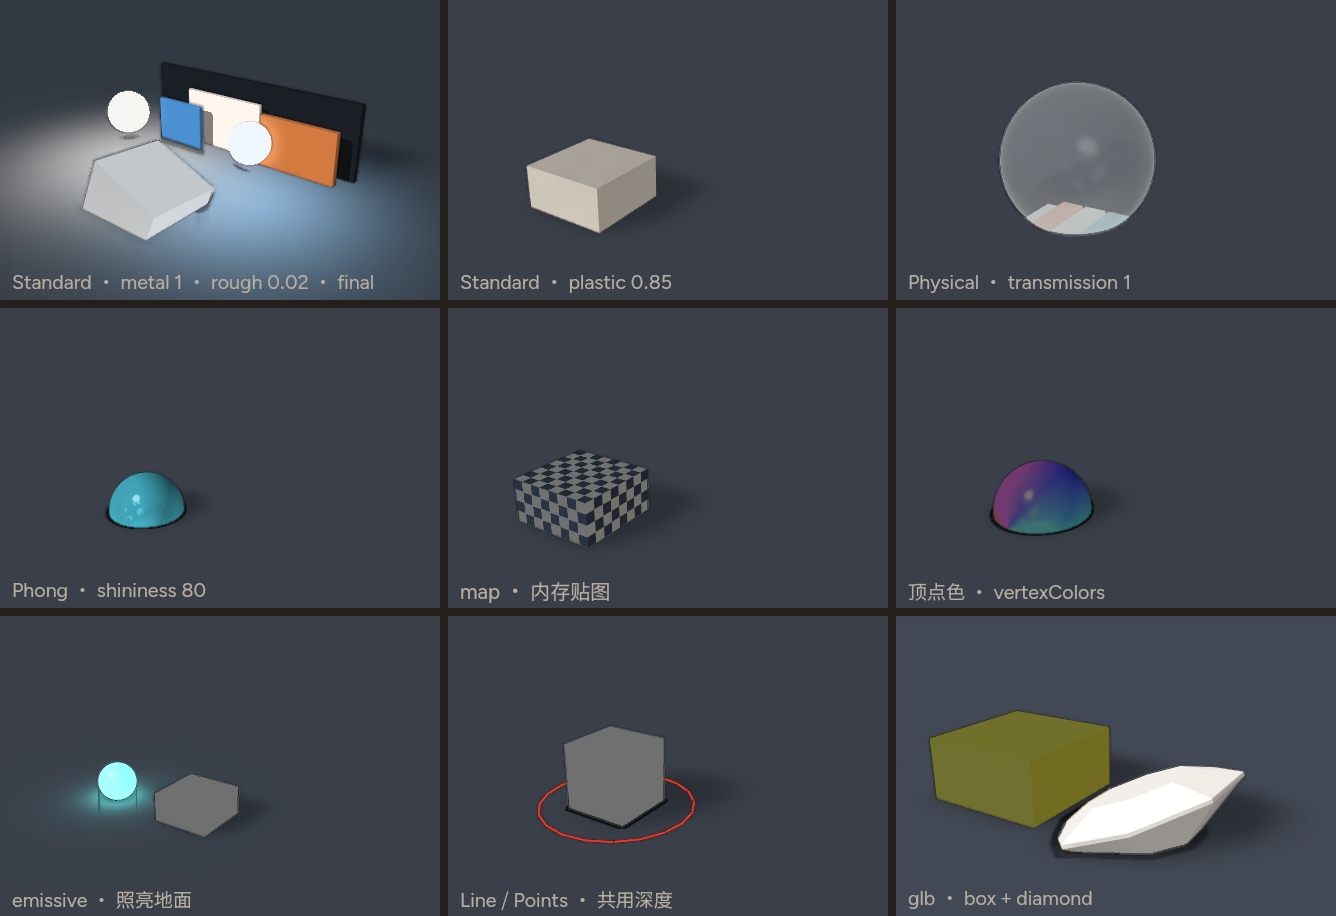
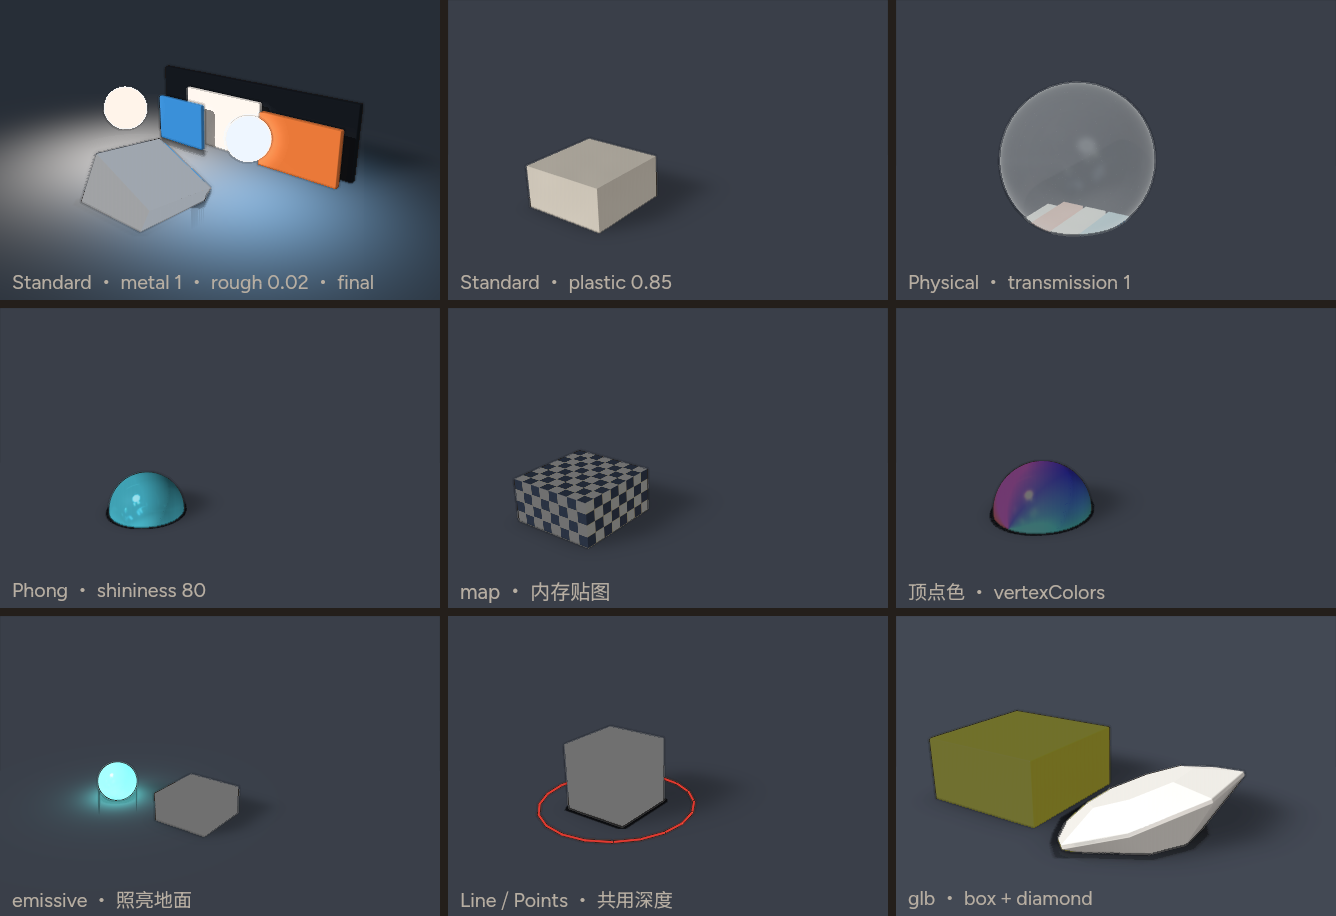
QUALITY-6 matclose: closer materials + darker mirror metal
Pull materials framing to distance 800, densify yawed mint glass,
enlarge neon. Darken Standard metal so bounce cards read as mirror
instead of flood white.

Changed region(s): [[0.0614, 0.0917, 0.1841, 0.2751], [0.1841, 0.1223, 0.2762, 0.214]]

diff --git a/docs/gallery/3d/model/standard-metal.tsx b/docs/gallery/3d/model/standard-metal.tsx
@@ -4,37 +4,37 @@ import * as THREE from 'three'
 
 // QUALITY-6 §E.2 cell 1: MeshStandardMaterial, metalness 1.
 // SPEC maps metalness ≥ 0.5 to `metal`. Keep Standard (not Physical).
-// Metshine: yawback A model 6 / B matte-grey Standard — restore silvercube
-// lamp heat + brighter lid so SSR bounce cards read, keep metform yaw.
+// Matclose: metshine B Standard read matte white under flood lamps — darker
+// lid + saturated bounce cards so SSR reflections contrast; keep yaw.
 const mesh = new THREE.Mesh(
   new THREE.BoxGeometry(1, 1, 1),
-  new THREE.MeshStandardMaterial({ color: '#dce4ec', metalness: 1, roughness: 0.02 }),
+  new THREE.MeshStandardMaterial({ color: '#9aa6b4', metalness: 1, roughness: 0.02 }),
 )
-mesh.rotation.y = 0.38
-mesh.rotation.x = -0.08
+mesh.rotation.y = 0.42
+mesh.rotation.x = -0.1
 
 export default layer.create(
-  <layer width={440} height={300} background="#241f1b">
+  <layer width={440} height={300} background="#1c1816">
     <layer
       width={440}
       height={300}
-      camera="fov 34, orbit 38 24, distance 850, at 220 198 0"
+      camera="fov 34, orbit 40 22, distance 860, at 220 198 0"
       light="world"
       quality="final"
     >
-      <light type="hemisphere" intensity="0.42" color="#e8eef4" ground-color="#323840" />
-      <light type="directional" intensity="0.88" color="#ffffff" x="-180" y="-420" z="520" target="0 0 0" />
-      <light type="point" intensity="2.5" color="#ffffff" x="300" y="40" z="220" distance="700" />
-      <light type="point" intensity="2.1" color="#8ec8ff" x="-120" y="60" z="180" distance="500" />
-      <ground y={220} rotateX={90} fill="#2a3038" shadow-blur={52} shadow-opacity={0.34} />
-      <sphere cx="95" cy="130" r="34" z="90" fill="#f0ebe4" material="lamp" />
-      <sphere cx="340" cy="125" r="30" z="85" fill="#5aa8ff" material="lamp" />
+      <light type="hemisphere" intensity="0.28" color="#dce6f0" ground-color="#1e242c" />
+      <light type="directional" intensity="0.7" color="#ffffff" x="-200" y="-400" z="520" target="0 0 0" />
+      <light type="point" intensity="1.6" color="#ffffff" x="320" y="20" z="240" distance="700" />
+      <light type="point" intensity="1.8" color="#6ab0ff" x="-140" y="50" z="200" distance="500" />
+      <ground y={220} rotateX={90} fill="#222830" shadow-blur={52} shadow-opacity={0.38} />
+      <sphere cx="88" cy="125" r="36" z="95" fill="#fff4ea" material="lamp" />
+      <sphere cx="348" cy="120" r="32" z="90" fill="#4a9cff" material="lamp" />
       <layer x={28} y={220} width={400} height={190} origin="200 0" rotateX={90} preserve-3d>
-        <rect x="-10" y="-80" width="420" height="12" depth="260" fill="#1a1e24" />
-        <rect x="250" y="-45" width="140" height="12" depth="180" fill="#d07840" />
-        <rect x="30" y="-30" width="100" height="10" depth="160" fill="#4a8fd0" />
-        <rect x="80" y="-55" width="160" height="8" depth="200" fill="#fff4ea" />
-        <model object={mesh} unit={122} x={200} y={188} material="finish metal, color #c8d2dc, roughness 0.02, metalness 1" />
+        <rect x="-10" y="-80" width="420" height="12" depth="260" fill="#14181e" />
+        <rect x="250" y="-45" width="150" height="12" depth="190" fill="#e87838" />
+        <rect x="20" y="-30" width="110" height="10" depth="170" fill="#3a8fd8" />
+        <rect x="70" y="-55" width="170" height="8" depth="210" fill="#fff6ee" />
+        <model object={mesh} unit={120} x={200} y={188} material="finish metal, color #9aa6b4, roughness 0.02, metalness 1" />
       </layer>
     </layer>
     <layer x={12} y={272}>

diff --git a/scripts/gallery-3d.ts b/scripts/gallery-3d.ts
@@ -135,15 +135,15 @@ const FINISHES: Finish[] = [
     // Glassmass: metfix A+B materials 6 — yawed mint nearly vanished. Larger
     // denser box, milder yaw; sphere fill denser so the disk still reads.
     label: 'glass 0.06',
-    box: 'fill="#449884f0" material="glass 0.06"',
-    sphere: 'fill="#c4eadfd0" material="glass 0.06"',
+    box: 'fill="#3d8a76f2" material="glass 0.06"',
+    sphere: 'fill="#b8e4d8d0" material="glass 0.06"',
     side: 'fill="#e0a33a"',
     stripes: true,
   },
   {
     label: 'glass 0.72',
-    box: 'fill="#355a52f0" material="glass 0.72"',
-    sphere: 'fill="#9cb8b0e8" material="glass 0.72"',
+    box: 'fill="#2a5a52f2" material="glass 0.72"',
+    sphere: 'fill="#8eb0a8e8" material="glass 0.72"',
     side: 'fill="#e0a33a"',
     stripes: true,
   },
@@ -176,9 +176,10 @@ const FINISHES: Finish[] = [
   },
   {
     label: 'neon',
-    box: 'fill="#f4f1ea"',
-    sphere: 'fill="#f4f1ea"',
-    side: 'material="neon"',
+    // Matclose: metshine A+B neon = shapeless cyan blob. Larger glowing torus.
+    box: 'fill="#1a2228"',
+    sphere: 'fill="#1a2228"',
+    side: 'fill="#40f0ff" material="neon"',
     neon: true,
   },
 ]
@@ -204,21 +205,23 @@ function cluster(finish: Finish): string {
   // glassmass fat -18 yaw read as RGB fragments again.
   const box = finish.stripes
     ? glassCell
-      ? `<rect id="box" x="-4" y="38" width="120" height="64" depth="120" rx="16" rotateY="-28" ${finish.box} />`
+      ? `<rect id="box" x="-18" y="34" width="124" height="68" depth="118" rx="16" rotateY="-30" ${finish.box} />`
       : `<rect id="box" x="14" y="14" width="158" height="110" depth="98" rx="16" ${finish.box} />`
     : `<rect id="box" x="28" y="30" width="120" height="86" depth="72" rx="12" ${finish.box} />`
   // Gold accent sphere (not finish.side): metal cells used to paint two
   // identical chrome spheres and dual-blind called them inseparable clones
   // (§9.2). Extruded-circle sides also scooped hollow. Neon keeps its torus.
   const side = finish.neon
-    ? `<torus id="side" cx="330" cy="78" r="32" tube="8" z="14" ${finish.side} rotateX="70" />`
+    ? `<torus id="side" cx="320" cy="72" r="40" tube="12" z="20" ${finish.side} rotateX="70" />`
     : `<sphere id="side" cx="330" cy="78" r="28" z="28" fill="#e0a33a" material="plastic 0.35" />`
   // Warm back + accent + lamp keys so polished metal shows a highlight
   // instead of near-black (QUALITY-6 §9.2). Keep studio orbit for gates.
   // Fillmild: drop key3 — third lamp read as wall/halo cluster under §9.2 B.
   // Fillmild framing (860). Closer pulls blew glass SSIM; dual-blind empty
   // cells are a look tip, not a gate lever.
-  return `<layer width="440" height="300" camera="fov 32, orbit 34 22, distance 860, at 220 160 0">
+  // Matclose: metshine A materials 6 — samples too small. Pull in to 800;
+  // glass SSIM must stay clear≥0.6 frost≤0.3.
+  return `<layer width="440" height="300" camera="fov 30, orbit 32 20, distance 800, at 220 155 0">
     <ground id="ground" y="220" rotateX="90" fill="#e7e0d4" shadow-blur="32" shadow-opacity="0.35" />
     <layer x="28" y="220" width="400" height="190" origin="200 0" rotateX="90" preserve-3d>
       <rect id="back" x="-30" y="-90" width="440" height="14" depth="300" fill="#f4efe6" />
